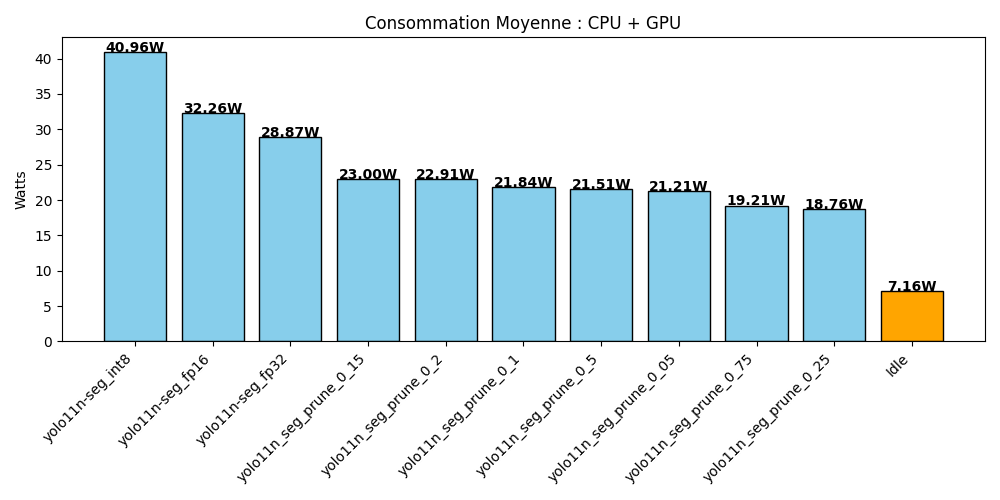
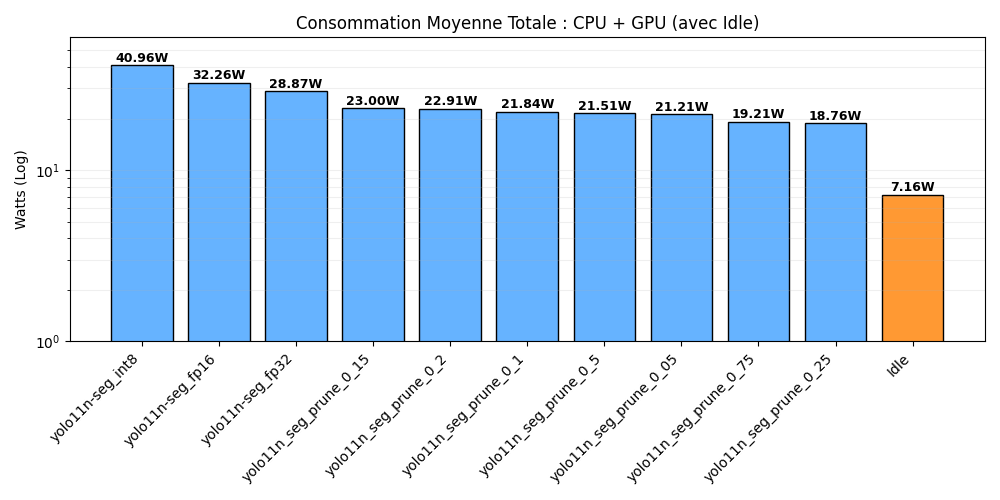
feat: Change some details on graph

diff --git a/results/analyse_result.py b/results/analyse_result.py
@@ -39,83 +39,114 @@ def get_avg_power(df, phase_name):
     subset = df[df['Phase'].astype(str).str.strip().str.lower() == str(phase_name).strip().lower()]
     return subset[col].mean() if not subset.empty else 0
 
+def get_global_max_power(config_dict):
+    """Scanne pour trouver la puissance max (Totale)."""
+    max_p = 1.0 
+    for file_key in config_dict.keys():
+        files = [file_key] if isinstance(file_key, str) else file_key
+        combined_series = pd.Series(dtype=float)
+        for f in files:
+            if os.path.exists(f):
+                temp_df = pd.read_csv(f)
+                col = 'Power' if 'Power' in temp_df.columns else 'Watt (W)'
+                combined_series = combined_series.add(temp_df[col], fill_value=0)
+        if not combined_series.empty:
+            max_p = max(max_p, combined_series.max())
+    return max_p
+
 # 3. GÉNÉRATION DES PROFILS INDIVIDUELS
-def generate_individual_profiles(config_dict):
-    print("--- 1. Génération des profils individuels (Courbes & Moyennes) ---")
+def generate_individual_profiles(config_dict, global_max):
+    print(f"--- 1. Génération des profils individuels (Max global: {global_max:.2f}W) ---")
     
     for file_key, (time_step, custom_label) in config_dict.items():
         files = [file_key] if isinstance(file_key, str) else file_key
+        df_combined = None
+        col_conso = ""
         
-        valid_dfs = []
         for f in files:
-            if os.path.exists(f):
-                valid_dfs.append(pd.read_csv(f))
+            if not os.path.exists(f): continue
+            temp_df = pd.read_csv(f)
+            c = 'Power' if 'Power' in temp_df.columns else 'Watt (W)'
+            if df_combined is None:
+                df_combined = temp_df.copy()
+                col_conso = c
             else:
-                print(f"Saut : {f} non trouvé.")
+                df_combined[col_conso] = df_combined[col_conso].add(temp_df[c], fill_value=0)
         
-        if not valid_dfs:
-            continue
+        if df_combined is None: continue
 
-        df = valid_dfs[0].copy()
-        col_conso = 'Power' if 'Power' in df.columns else 'Watt (W)'
+        # --- Calcul de l'Idle pour cet appareil ---
+        idle_power = get_avg_power(df_combined, 'Idle')
+        print(f"   > {custom_label} | Idle détecté : {idle_power:.2f}W")
+
+        models = [p for p in df_combined['Phase'].unique() if p != 'Idle']
         
-        if len(valid_dfs) > 1:
-            for other_df in valid_dfs[1:]:
-                df[col_conso] += other_df[col_conso]
-        
-        models = [p for p in df['Phase'].unique() if p != 'Idle']
-        
+        # --- Graphique d'évolution (DYNAMIQUE UNIQUEMENT) ---
         plt.figure(figsize=(12, 6))
-        averages = {}
+        averages_total = {}
         
-        idle_data = df[df['Phase'] == 'Idle'][col_conso]
-        if not idle_data.empty:
-            idle_p = idle_data.mean()
-            averages['Idle'] = idle_p
+        # On stocke l'idle pour l'histogramme plus tard
+        if idle_power > 0:
+            averages_total['Idle'] = idle_power
 
         for model in models:
-            indices = df.index[df['Phase'] == model].tolist()
+            indices = df_combined.index[df_combined['Phase'] == model].tolist()
             if not indices: continue
             
-            s, e = max(0, indices[0]-5), min(len(df)-1, indices[-1]+5)
-            subset = df.iloc[s:e+1].copy()
+            s, e = max(0, indices[0]-5), min(len(df_combined)-1, indices[-1]+5)
+            subset = df_combined.iloc[s:e+1].copy()
             subset['Relative Time'] = np.arange(len(subset)) * time_step
             
-            label_c = clean_model_name(model)
-            plt.plot(subset['Relative Time'], subset[col_conso], label=label_c)
+            # Soustraction de l'idle pour la courbe temporelle
+            dynamic_power_curve = (subset[col_conso] - idle_power).clip(lower=0.01)
             
-            averages[label_c] = df.iloc[indices[0]:indices[-1]+1][col_conso].mean()
+            label_c = clean_model_name(model)
+            plt.plot(subset['Relative Time'], dynamic_power_curve, label=label_c)
+            
+            # On garde la moyenne TOTALE pour l'histogramme
+            averages_total[label_c] = df_combined.iloc[indices[0]:indices[-1]+1][col_conso].mean()
 
-        plt.title(f"Profil : {custom_label}")
+        plt.title(f"Puissance Dynamique (Surconsommation) : {custom_label}")
         plt.xlabel("Secondes")
-        plt.ylabel("Puissance (Watt)")
-        plt.legend(bbox_to_anchor=(1.05, 1), loc='upper left', fontsize='large')
-        plt.grid(True, alpha=0.3)
+        plt.ylabel("Watts additionnels (Log)")
+        #plt.yscale('log')
+        plt.ylim(0, (global_max-idle_power)*1.1)
+        plt.legend(bbox_to_anchor=(1.05, 1), loc='upper left')
+        plt.grid(True, which="both", ls="-", alpha=0.2)
         plt.tight_layout()
         
         file_name_clean = custom_label.replace(' ', '_').replace('+', 'plus')
         plt.savefig(os.path.join(OUTPUT_DIR, f"courbes_{file_name_clean}.png"))
         plt.close()
 
-        if averages:
-            sorted_avg = dict(sorted(averages.items(), key=lambda x: x[1], reverse=True))
+        # --- Graphique des moyennes (TOTALES AVEC IDLE) ---
+        if averages_total:
+            # Tri décroissant par puissance
+            sorted_avg = dict(sorted(averages_total.items(), key=lambda x: x[1], reverse=True))
             plt.figure(figsize=(10, 5))
-            colors = ['orange' if k == 'Idle' else 'skyblue' for k in sorted_avg.keys()]
+            
+            # Couleur différente pour l'Idle
+            colors = ['#ff9933' if k == 'Idle' else '#66b3ff' for k in sorted_avg.keys()]
             bars = plt.bar(sorted_avg.keys(), sorted_avg.values(), color=colors, edgecolor='black')
             
-            plt.title(f"Consommation Moyenne : {custom_label}")
-            plt.ylabel("Watts")
+            plt.title(f"Consommation Moyenne Totale : {custom_label} (avec Idle)")
+            plt.ylabel("Watts (Log)")
+            plt.yscale('log')
+            plt.ylim(1, global_max * 1.2 )
             plt.xticks(rotation=45, ha='right')
             
             for b in bars:
-                plt.text(b.get_x()+b.get_width()/2, b.get_height()+0.02, 
-                         f"{b.get_height():.2f}W", ha='center', fontweight='bold')
+                val = b.get_height()
+                if val >= 1:
+                    plt.text(b.get_x()+b.get_width()/2, val * 1.05, 
+                             f"{val:.2f}W", ha='center', fontweight='bold', fontsize=9)
             
+            plt.grid(True, which="both", axis='y', ls="-", alpha=0.2)
             plt.tight_layout()
             plt.savefig(os.path.join(OUTPUT_DIR, f"moyennes_{file_name_clean}.png"))
             plt.close()
             
-        print(f"Terminé pour {custom_label}")
+        print(f"   > Graphiques terminés pour {custom_label}")
 
 # 4. GÉNÉRATION DES COMPARAISONS GLOBALES
 def plot_efficiency(df, map_col, map_label, filename):
@@ -124,103 +155,69 @@ def plot_efficiency(df, map_col, map_label, filename):
     
     models_list = sorted(df['Model'].unique())
     devices_list = df['Device'].unique()
-    
     colors = dict(zip(models_list, sns.color_palette("husl", len(models_list))))
     markers = {dev: m for dev, m in zip(devices_list, ['o', 's', 'D', '^', 'v'])}
 
     for mod in models_list:
         mod_df = df[df['Model'] == mod].sort_values(map_col)
         plt.plot(mod_df[map_col], mod_df['Score'], color=colors[mod], alpha=0.4, linewidth=1.5)
-        
         for dev in devices_list:
             pt = mod_df[mod_df['Device'] == dev]
             if not pt.empty:
                 plt.scatter(pt[map_col], pt['Score'], color=colors[mod], marker=markers[dev], 
                             s=150, edgecolors='black', alpha=0.9, zorder=5)
-            if not df.empty:
-                x_limit = 0.75
-                plt.xlim(0, x_limit)
 
-    plt.title(f"Efficacité : {map_label} vs Énergie Dynamique", fontsize=15)
+    plt.title(f"Efficacité Énergétique Dynamique : {map_label} vs Joules", fontsize=15)
     plt.xlabel(f"Précision ({map_label})", fontsize=12)
-    plt.ylabel("Énergie consommée (J)", fontsize=12)
+    plt.ylabel("Énergie Dynamique Totale (Joules)")
     plt.yscale('log')
 
+    # Légendes
     m_leg = [Line2D([0], [0], color=colors[m], lw=2, label=m) for m in models_list]
-    leg1 = plt.legend(handles=m_leg, title="Modèles", loc='lower right', fontsize='large', frameon=True, shadow=True)
+    leg1 = plt.legend(handles=m_leg, title="Modèles", loc='lower right', frameon=True, shadow=True)
     plt.gca().add_artist(leg1)
-
-    d_leg = [Line2D([0], [0], marker=markers[d], color='w', label=d, 
-                    markerfacecolor='gray', markeredgecolor='black', markersize=9) for d in devices_list]
-    plt.legend(handles=d_leg, title="Périphériques", loc='upper left', fontsize='medium', frameon=True, shadow=True)
+    d_leg = [Line2D([0], [0], marker=markers[d], color='w', label=d, markerfacecolor='gray', markersize=9) for d in devices_list]
+    plt.legend(handles=d_leg, title="Périphériques", loc='upper left', frameon=True, shadow=True)
 
     plt.tight_layout()
-    plt.savefig(os.path.join(OUTPUT_DIR, filename), bbox_inches='tight')
-    plt.close()
-
-def plot_inference_time_bar(df, filename):
-    """
-    Génère un graphique en bâtons du temps d'inférence moyen par modèle et périphérique.
-    """
-    plt.figure(figsize=(12, 6))
-    sns.set_style("whitegrid")
-    pivot_df = df.pivot(index='Model', columns='Device', values='InferenceTime')
-    pivot_df.plot(kind='bar', edgecolor='black')
-    plt.title("Temps d'inférence moyen par modèle et périphérique", fontsize=15)
-    plt.ylabel("Temps d'inférence (ms)", fontsize=12)
-    plt.xlabel("Modèle", fontsize=12)
-    plt.xticks(rotation=45, ha='right')
-    plt.yscale('log')
-    plt.tight_layout()
-    # Déplacer la légende à droite, hors du graphique
-    plt.legend(title="Périphérique", bbox_to_anchor=(1.02, 1), loc='upper left', borderaxespad=0)
     plt.savefig(os.path.join(OUTPUT_DIR, filename), bbox_inches='tight')
     plt.close()
 
 def generate_global_comparisons(bench_config):
-    print("\n--- 2. Génération des comparaisons mAP / Efficacité (Énergie Dynamique) ---")
+    print("\n--- 2. Génération des comparaisons mAP / Efficacité ---")
     results = []
-
     for cfg in bench_config:
-        if not os.path.exists(cfg['bench']):
-            print(f"Benchmark non trouvé : {cfg['bench']}")
-            continue
-            
+        if not os.path.exists(cfg['bench']): continue
         dfs_power = [pd.read_csv(pf) for pf in cfg['power_files'] if os.path.exists(pf)]
         if not dfs_power: continue
 
         idle_p = sum(get_avg_power(df, 'Idle') for df in dfs_power)
-        
         df_bench = pd.read_csv(cfg['bench'])
+
         for _, row in df_bench.iterrows():
             total_model_p = sum(get_avg_power(df, row['Model']) for df in dfs_power)
-            
             if total_model_p > 0:
-                dynamic_p = max(0, total_model_p - idle_p)
-                
-                score = (row['time_avg'] * dynamic_p) / 1000.0
-                
+                dynamic_p = max(0.01, total_model_p - idle_p)
+                score = (row['time_avg'] / 1000.0) * dynamic_p
                 results.append({
                     'Device': cfg['device'],
                     'Model': clean_model_name(row['Model']),
                     'mAP_box': row['mAP_box'],
                     'mAP_mask': row['mAP_mask'],
-                    'Score': score,
-                    'InferenceTime': row['time_avg']
+                    'Score': score
                 })
 
-    if not results:
-        print("Erreur : Aucune donnée trouvée.")
-        return
-
+    if not results: return
     df_final = pd.DataFrame(results)
     plot_efficiency(df_final, 'mAP_box', 'mAP Box', 'comparaison_efficacite_box.png')
     plot_efficiency(df_final, 'mAP_mask', 'mAP Mask', 'comparaison_efficacite_mask.png')
-    # Ajout du graphique en bâtons pour le temps d'inférence
-    plot_inference_time_bar(df_final, 'comparaison_temps_inference.png')
-    print(f"Graphiques globaux sauvegardés dans : {OUTPUT_DIR}")
 
 # 5. EXÉCUTION
 if __name__ == "__main__":
-    generate_individual_profiles(PROFILING_CONFIG)
+    # Max global pour harmoniser tous les axes Y
+    global_max_found = get_global_max_power(PROFILING_CONFIG)
+    
+    generate_individual_profiles(PROFILING_CONFIG, global_max_found)
     generate_global_comparisons(GLOBAL_BENCH_CONFIG)
+    
+    print(f"\nTraitement terminé. Les graphes temporels sont DYNAMIQUES, les moyennes sont TOTALES (avec Idle).")
